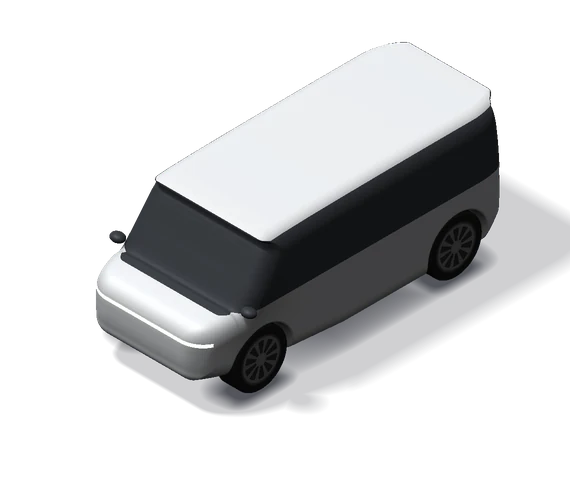
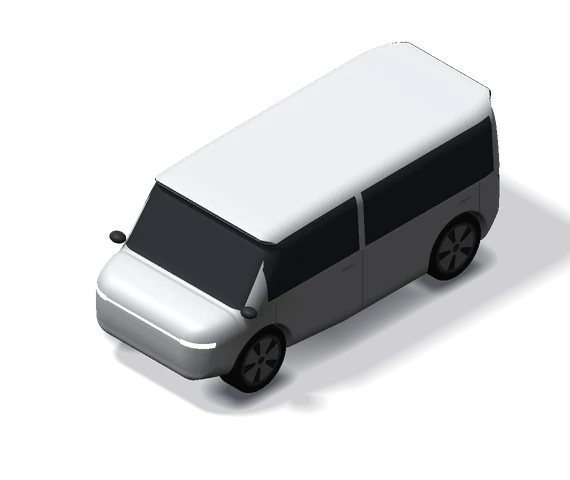
Modern electric cars in the Home tab

diff --git a/CHANGELOG.md b/CHANGELOG.md
@@ -7,7 +7,7 @@ All notable changes to EV Planner. The version is the one in `custom_components/
 Beta: only those who show beta versions in the Marketplace get it.
 
 ### Changed
-- **The cars in the Home tab** are new clay models, made in the same view and light as the house, so they stand on the drive instead of being pasted onto it. Each kind keeps its own colour, and the car brings its own soft shadow.
+- **The cars in the Home tab** are new clay models of modern electric cars, made in the same view and light as the house, so they stand on the drive instead of being pasted onto it: real side windows, a closed front with a slim light across it, a light bar at the back and aero wheels; the SUV has black trim and roof rails. Each kind keeps its own colour, and the car brings its own soft shadow.
 
 ## [2.2.0b4] - 2026-11-09
 
